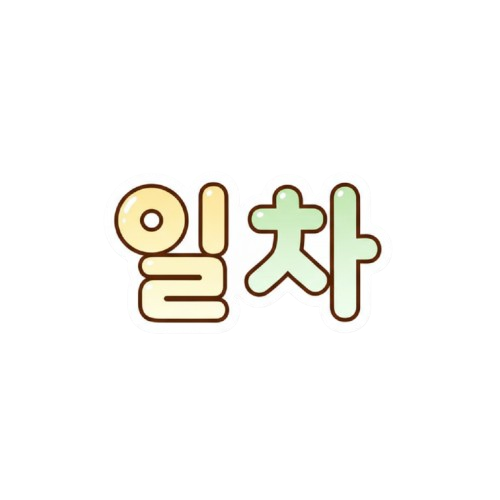
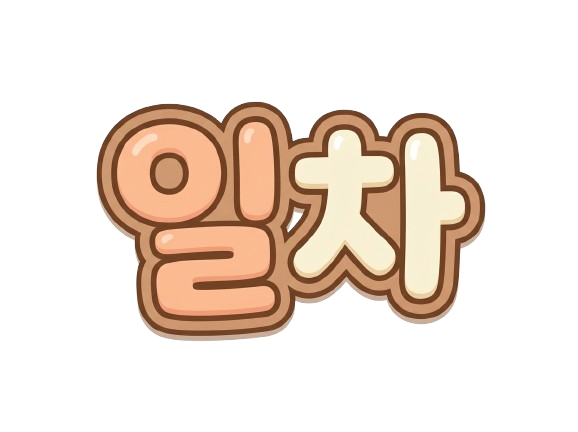
style: 일차 표시 이미지 크기/간격 조정 (숫자 130, 일차 160, 간격 최적화)

Changed region(s): [[0.15, 0.2106, 0.84, 0.8125]]

diff --git a/src/scenes/HomeScene.ts b/src/scenes/HomeScene.ts
@@ -129,9 +129,10 @@ export class HomeScene extends Phaser.Scene {
     // 기존 컨테이너 내용 삭제
     this.dayContainer.removeAll(true);
     
-    const digitHeight = 100; // 숫자 이미지 높이
-    const dayTextHeight = 80; // "일차" 이미지 높이
-    const gap = 10; // 숫자와 "일차" 사이 간격
+    const digitHeight = 130; // 숫자 이미지 높이
+    const dayTextHeight = 160; // "일차" 이미지 높이
+    const gap = -45; // 숫자와 "일차" 사이 간격
+    const digitGap = -60; // 숫자끼리 간격 (더 붙이기)
     
     // 숫자 이미지들 생성
     const numberImages = this.createNumberImages(this.currentDay, digitHeight);
@@ -143,19 +144,26 @@ export class HomeScene extends Phaser.Scene {
     
     // 전체 너비 계산
     let totalWidth = 0;
-    for (const img of numberImages) {
-      totalWidth += img.displayWidth;
+    for (let i = 0; i < numberImages.length; i++) {
+      totalWidth += numberImages[i].displayWidth;
+      if (i < numberImages.length - 1) {
+        totalWidth += digitGap; // 숫자 사이 간격
+      }
     }
     totalWidth += gap + dayTextImg.displayWidth;
     
     // 이미지들 배치 (가운데 정렬)
     let currentX = -totalWidth / 2;
     
-    for (const img of numberImages) {
+    for (let i = 0; i < numberImages.length; i++) {
+      const img = numberImages[i];
       img.setX(currentX + img.displayWidth / 2);
       img.setY(0);
       this.dayContainer.add(img);
       currentX += img.displayWidth;
+      if (i < numberImages.length - 1) {
+        currentX += digitGap; // 숫자 사이 간격
+      }
     }
     
     // "일차" 이미지 배치
